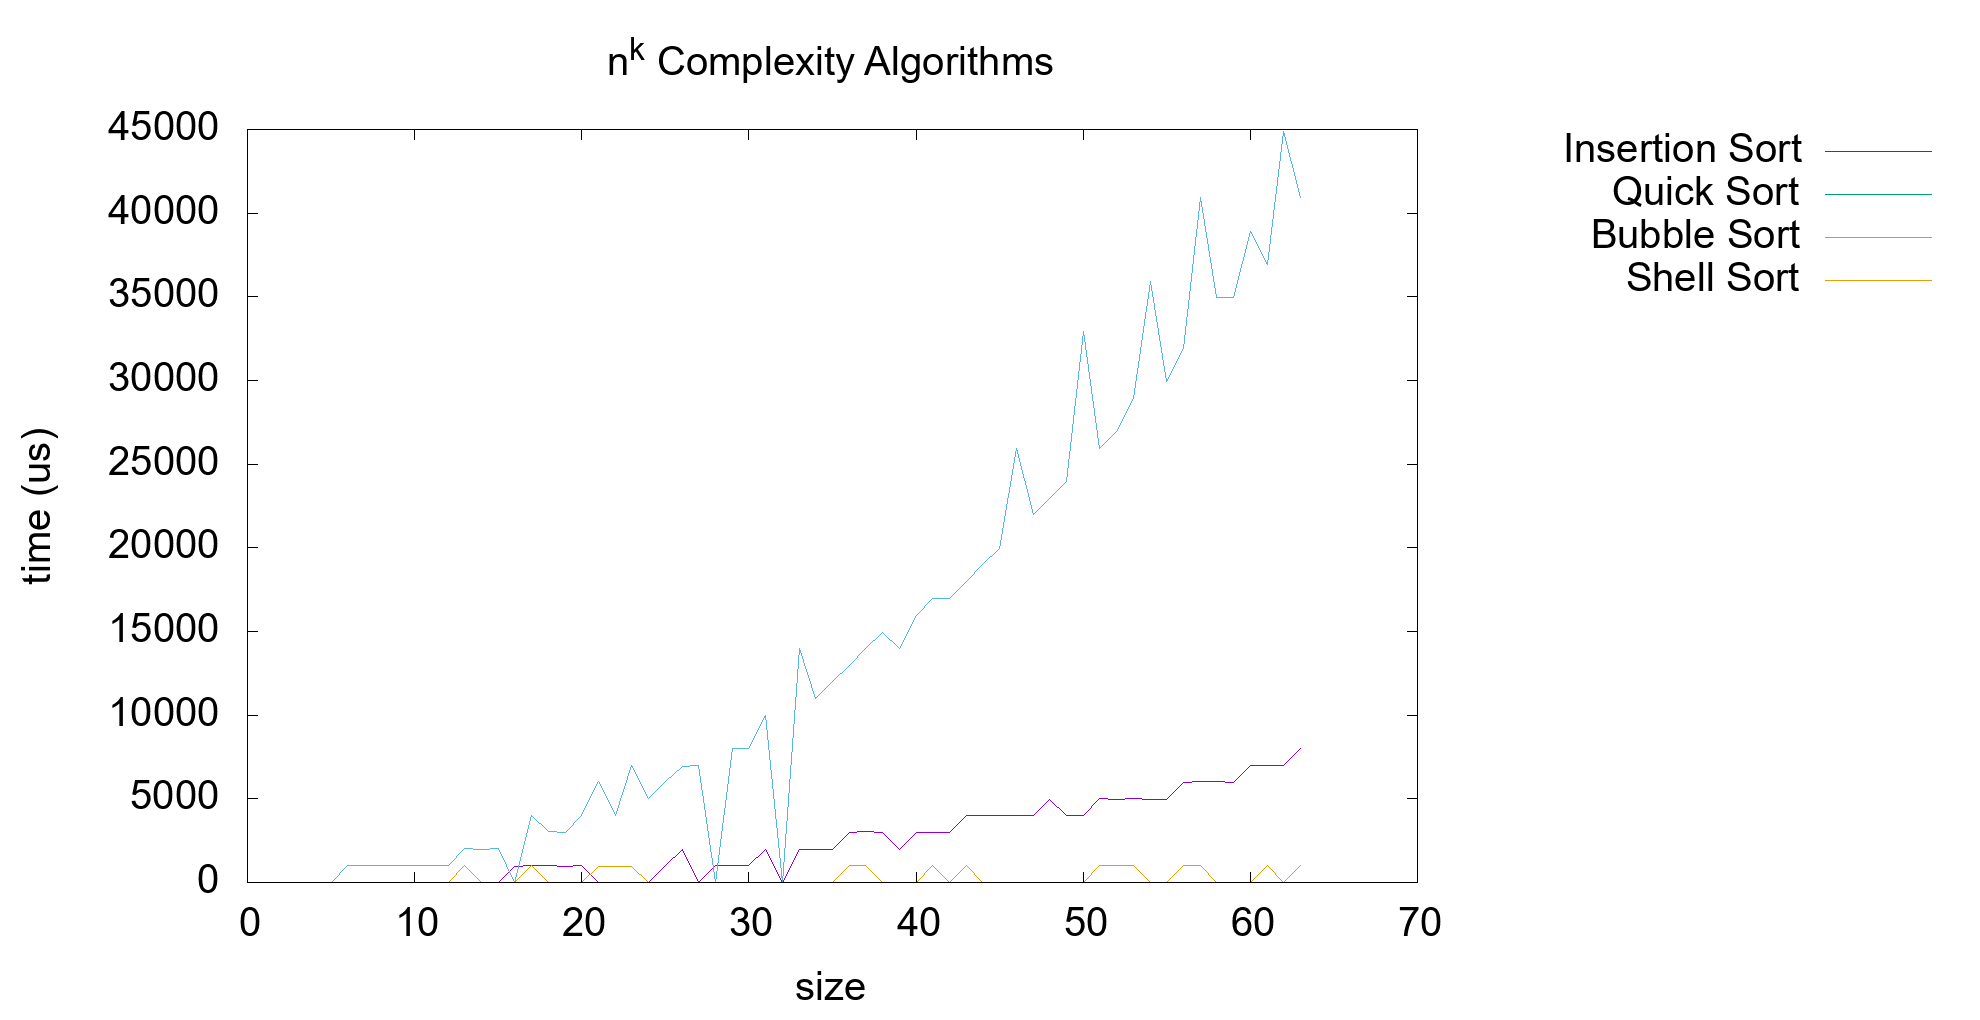
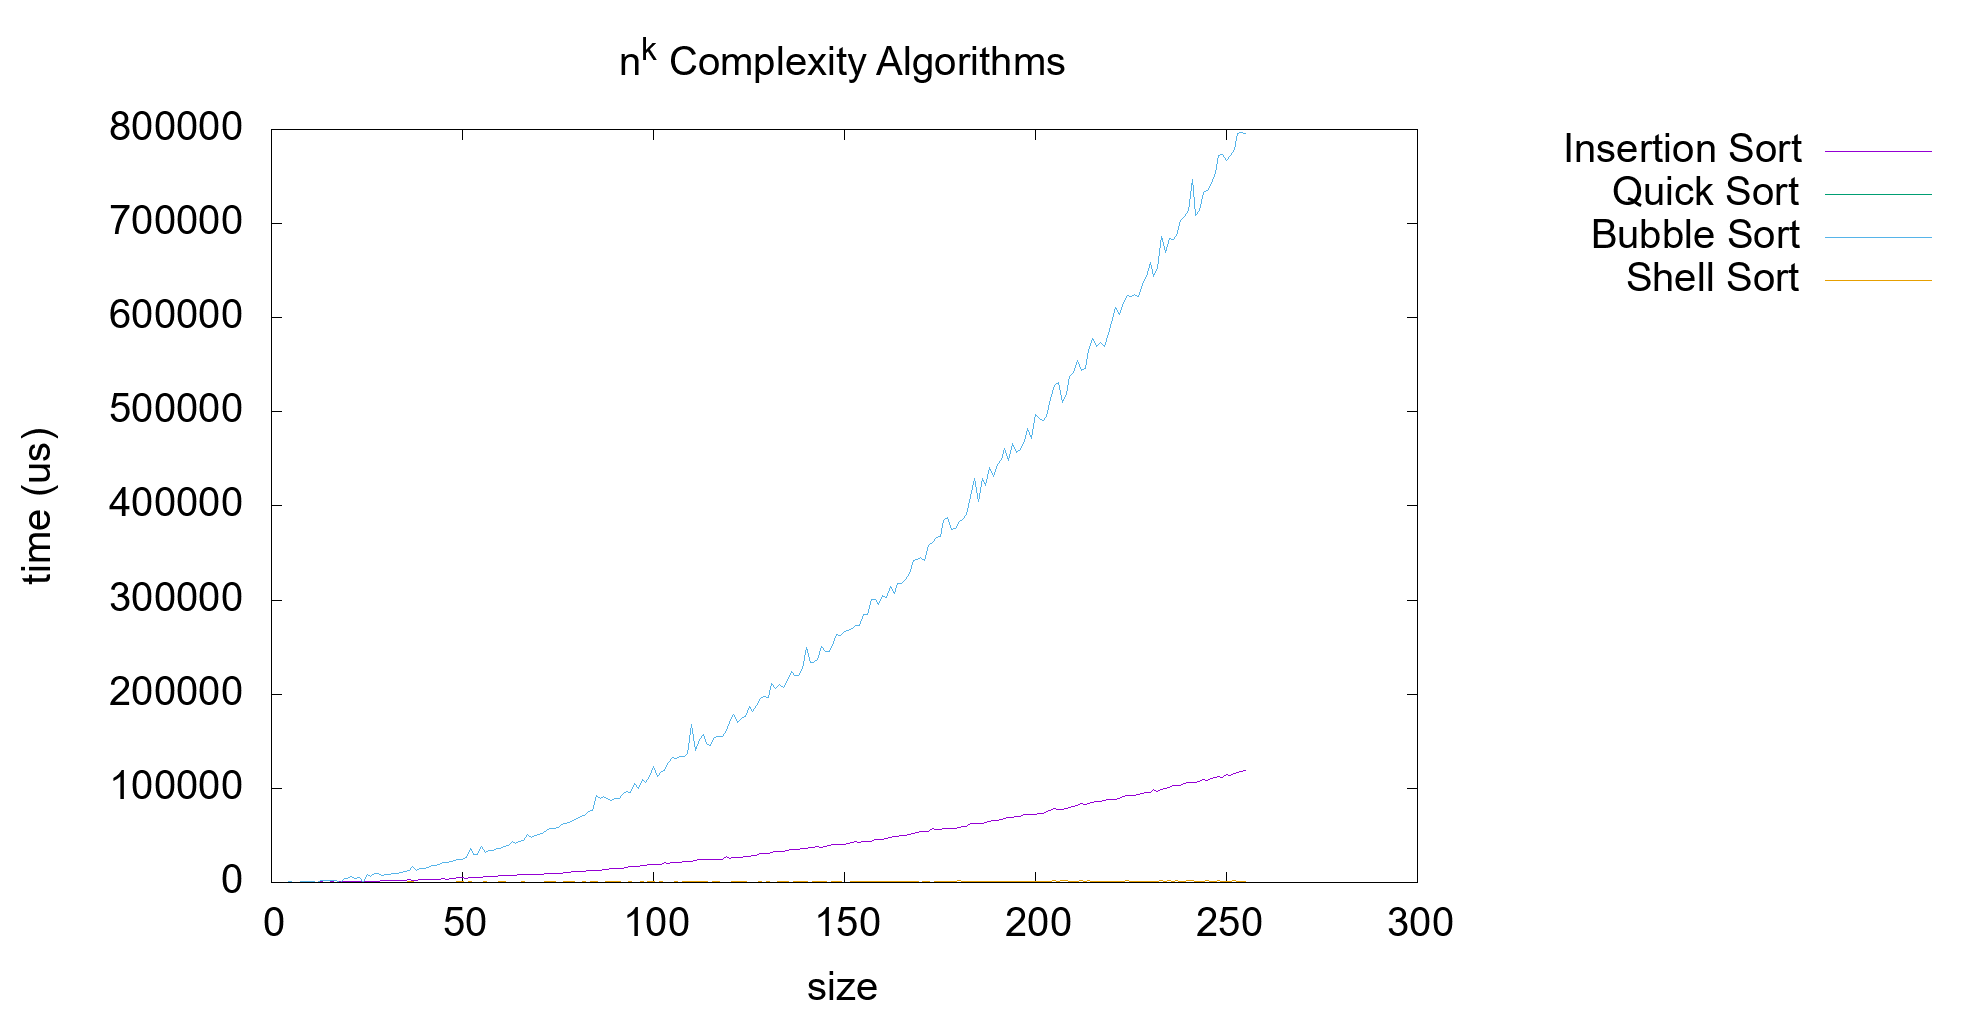
tested shell sort for correctness

diff --git a/shell.c b/shell.c
@@ -2,18 +2,17 @@
 
 void shell_sort(int *arr, int size)
 {
-	for (int gap = size/2; gap > 0; gap /= 2)
+	for (int gap = size / 2; gap > 0; gap /= 2)
 		for (int element = 0; element < size - gap; ++element)
 			for (int sub_element = 0; sub_element < size - gap; sub_element += gap)
 				if (arr[sub_element + gap] > arr[sub_element])
 					swap(arr + sub_element + gap, arr + sub_element);
 }
 
-
 void *shell_bench(void *input)
 {
 	long *args = input;
-	
+
 	int *arr = malloc(sizeof(int) * args[0]);
 	srand(time(0)); // initialize random number generator
 	for (int i = 0; i < args[0]; ++i)
@@ -27,5 +26,5 @@ void *shell_bench(void *input)
 
 	free(arr);
 
-	return (void *) (intptr_t) ((stop.tv_sec - start.tv_sec) * 1000000 + stop.tv_usec - start.tv_usec);
+	return (void *)(intptr_t)((stop.tv_sec - start.tv_sec) * 1000000 + stop.tv_usec - start.tv_usec);
 }

diff --git a/benchmark.c b/benchmark.c
@@ -7,8 +7,8 @@
 #define MAX_THREADS 8
 #define DATA_FILE "data.dat"
 #define GRAPH_FILE "graph.txt"
-#define MAX_DATA_POINTS (1 << 6)
-#define ITERATION_MULTIPLIER (1 << 6)
+#define MAX_DATA_POINTS (1 << 8)
+#define ITERATION_MULTIPLIER (1 << 8)
 
 void update_data_file(long **results, int iterations, int tests)
 {
